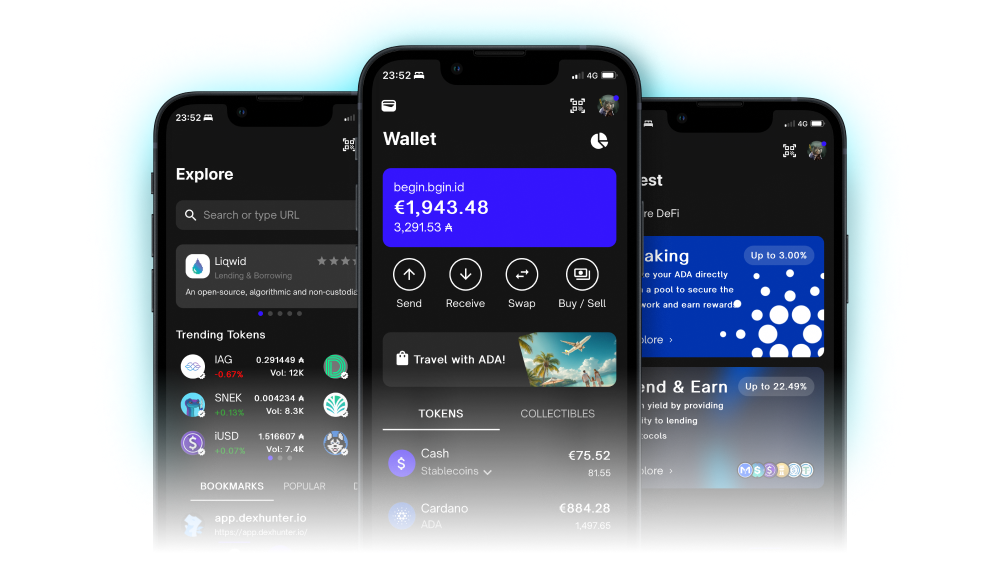
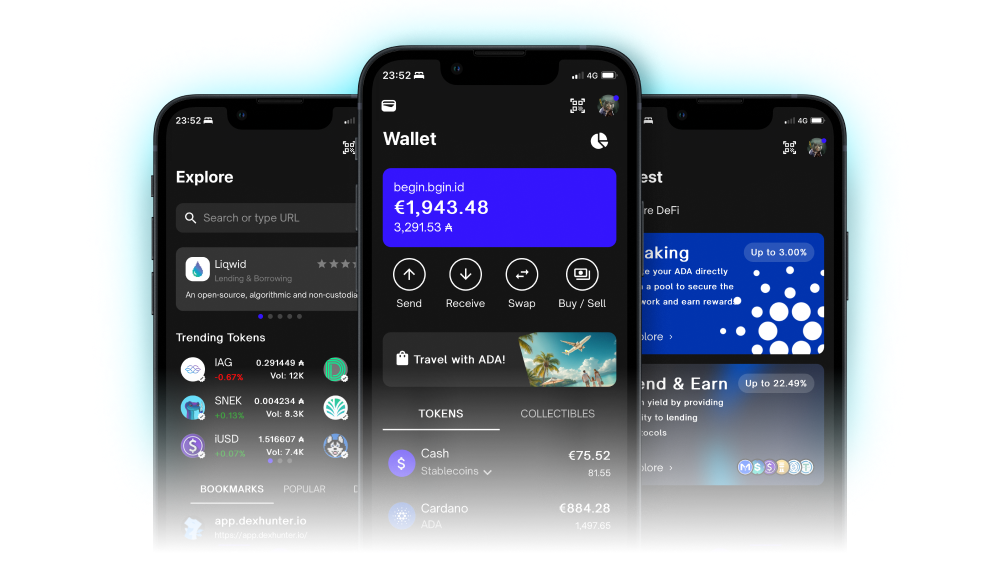
Mobile improvements and tweaks

diff --git a/src/components/home.tsx b/src/components/home.tsx
@@ -4,6 +4,7 @@ import { motion, useScroll, useTransform } from 'framer-motion';
 import { useRef } from 'react';
 import Image from 'next/image';
 import screens from '../public/images/hero-begin-wallet-screens.png';
+import mobile_screens from '../public/images/hero-mobile-app-screens.png';
 import { FaChrome as Chrome } from "react-icons/fa";
 import { FaGooglePlay as Android } from "react-icons/fa";
 import { FaApple as Apple } from "react-icons/fa";
@@ -58,10 +59,10 @@ const Home = () => {
         initial={{ opacity: 0, y: 40 }}
         animate={{ opacity: 1, y: 0 }}
         transition={{ duration: 0.8, ease: 'easeOut' }}
-        className="relative z-10 pt-10"
+        className="relative z-10 sm:pt-0 md:pt-10 lg:pt-10"
       >
-        <h1 className="text-4xl md:text-7xl font-bold leading-tight mt-12 mb-6">
-          Your Crypto Journey <br/><span className="font-extrabold">Begins</span> Here
+        <h1 className="text-4xl md:text-7xl leading-tight mt-12 mb-8">
+          Your Crypto Journey <br/><span className="font-extrabold underline decoration-2 underline-offset-8">Begins</span> Here
         </h1>
         <p className="text-lg md:text-xl max-w-2xl mx-auto mb-8">
           The all-in-one crypto wallet for Cardano and Bitcoin — self-custodial, open-source, and packed with staking, lending, governance, and real dApp discovery.
@@ -75,10 +76,30 @@ const Home = () => {
 
       <motion.div
         style={{ y }}
-        className="relative mx-auto mt-12 w-[90%] max-w-[1000px] z-0 pointer-events-none aspect-[1000/537]"
+        initial={{ opacity: 0, y: 40 }}
+        animate={{ opacity: 1, y: 0 }}
+        transition={{ duration: 0.8, ease: 'easeIn' }}
+        className="relative mx-auto mt-12 w-[90%] max-w-[1000px] z-0 pointer-events-none aspect-[1000/537] hidden sm:hidden lg:block"
       >
         <Image
           src={screens}
+          alt="Begin Wallet Screens"
+          fill
+          priority
+          sizes="(max-width: 768px) 100vw, 90vw"
+          className="object-contain"
+        />
+      </motion.div>
+
+      <motion.div
+        style={{ y }}
+        initial={{ opacity: 0, y: 40 }}
+        animate={{ opacity: 1, y: 0 }}
+        transition={{ duration: 0.8, ease: 'easeIn' }}
+        className="relative mx-auto mt-12 w-[90%] max-w-[578px] z-0 pointer-events-none aspect-[578/537] block sm:block lg:hidden"
+      >
+        <Image
+          src={mobile_screens}
           alt="Begin Wallet Screens"
           fill
           priority
@@ -97,21 +118,21 @@ const Home = () => {
         <div className="relative flex justify-center flex-wrap gap-4 py-20">
           <a
             href="https://apps.apple.com/app/begin-wallet"
-            className="flex w-full lg:w-auto text-center items-center gap-2 bg-cyan text-black font-semibold px-5 py-3 rounded-lg shadow hover:shadow-lg transition"
+            className="inline-flex items-center justify-center w-full lg:w-auto gap-2 bg-cyan text-black font-semibold px-5 py-3 rounded-lg shadow hover:shadow-lg transition"
           >
             <Apple className="w-5 h-5" />
             Download on iOS
           </a>
           <a
             href="https://play.google.com/store/apps/details?id=wallet.begin"
-            className="flex items-center gap-2 bg-cyan text-black font-semibold px-5 py-3 rounded-lg shadow hover:shadow-lg transition"
+            className="inline-flex items-center justify-center w-full lg:w-auto gap-2 bg-cyan text-black font-semibold px-5 py-3 rounded-lg shadow hover:shadow-lg transition"
           >
             <Android className="w-5 h-5" />
             Download on Android
           </a>
           <a
             href="https://chrome.google.com/webstore/detail/begin-wallet/..."
-            className="flex items-center gap-2 bg-cyan text-black font-semibold px-5 py-3 rounded-lg shadow hover:shadow-lg transition"
+            className="inline-flex items-center justify-center w-full lg:w-auto gap-2 bg-cyan text-black font-semibold px-5 py-3 rounded-lg shadow hover:shadow-lg transition"
           >
             <Chrome className="w-5 h-5" />
             Add to Chrome

diff --git a/src/components/download-cta.tsx b/src/components/download-cta.tsx
@@ -24,21 +24,21 @@ export default function DownloadCTA() {
         <div className="flex justify-center flex-wrap gap-4">
           <a
             href="https://apps.apple.com/app/begin-wallet"
-            className="flex items-center gap-2 bg-black text-cyan font-semibold px-5 py-3 rounded-lg shadow hover:shadow-lg transition"
+            className="inline-flex items-center justify-center w-full lg:w-auto gap-2 bg-black text-cyan font-semibold px-5 py-3 rounded-xl shadow hover:shadow-lg transition"
           >
             <Apple className="w-5 h-5" />
             Download on iOS
           </a>
           <a
             href="https://play.google.com/store/apps/details?id=wallet.begin"
-            className="flex items-center gap-2 bg-black text-cyan font-semibold px-5 py-3 rounded-lg shadow hover:shadow-lg transition"
+            className="inline-flex items-center justify-center w-full lg:w-auto gap-2 bg-black text-cyan font-semibold px-5 py-3 rounded-xl shadow hover:shadow-lg transition"
           >
             <Android className="w-5 h-5" />
             Download on Android
           </a>
           <a
             href="https://chrome.google.com/webstore/detail/begin-wallet/..."
-            className="flex items-center gap-2 bg-black text-cyan font-semibold px-5 py-3 rounded-lg shadow hover:shadow-lg transition"
+            className="inline-flex items-center justify-center w-full lg:w-auto gap-2 bg-black text-cyan font-semibold px-5 py-3 rounded-xl shadow hover:shadow-lg transition"
           >
             <Chrome className="w-5 h-5" />
             Add to Chrome

diff --git a/src/tailwind.config.js b/src/tailwind.config.js
@@ -35,6 +35,7 @@ module.exports = {
         },
       },
       spacing: {
+        0: "0",
         28: "7rem",
         34: "8.35rem", //'8.125rem',
         "317px": "317px",
@@ -68,6 +69,17 @@ module.exports = {
         "9xl": "4.5rem",
         "10xl": "6.25rem",
       },
+      fontWeight: {
+        thin: 100,
+        extralight: 200,
+        light: 300,
+        normal: 400,
+        medium: 500,
+        semibold: 600,
+        bold: 700,
+        extrabold: 800,
+        black: 900,
+      },
       boxShadow: {
         small: "0 5px 10px rgba(0, 0, 0, 0.25)",
         medium: "4px 4px 10px rgba(0, 0, 0, 0.40)",
@@ -84,6 +96,13 @@ module.exports = {
         green: theme("colors.green.500"),
         blue: theme("colors.blue.500"),
       }),
+      textUnderlineOffset: {
+        6: '6px',
+        8: '8px',
+      },
+      textDecorationThickness: {
+        4: '4px',
+      }
     },
   },
   variants: {

diff --git a/src/components/navigation.tsx b/src/components/navigation.tsx
@@ -120,7 +120,7 @@ const Navigation = () => {
         <div className={"block lg:w-auto lg:flex" + (navbarOpen ? " flex" : " hidden")}>
           <a
             href="/#download"
-            className="flex w-full md:w-auto items-center gap-2 bg-cyan text-black font-semibold px-5 py-3 rounded-lg shadow hover:shadow-lg transition"
+            className="flex w-full md:w-auto items-center gap-2 bg-cyan text-black font-semibold px-5 py-3 rounded-xl shadow hover:shadow-lg transition"
           >
             Get Started
           </a>
